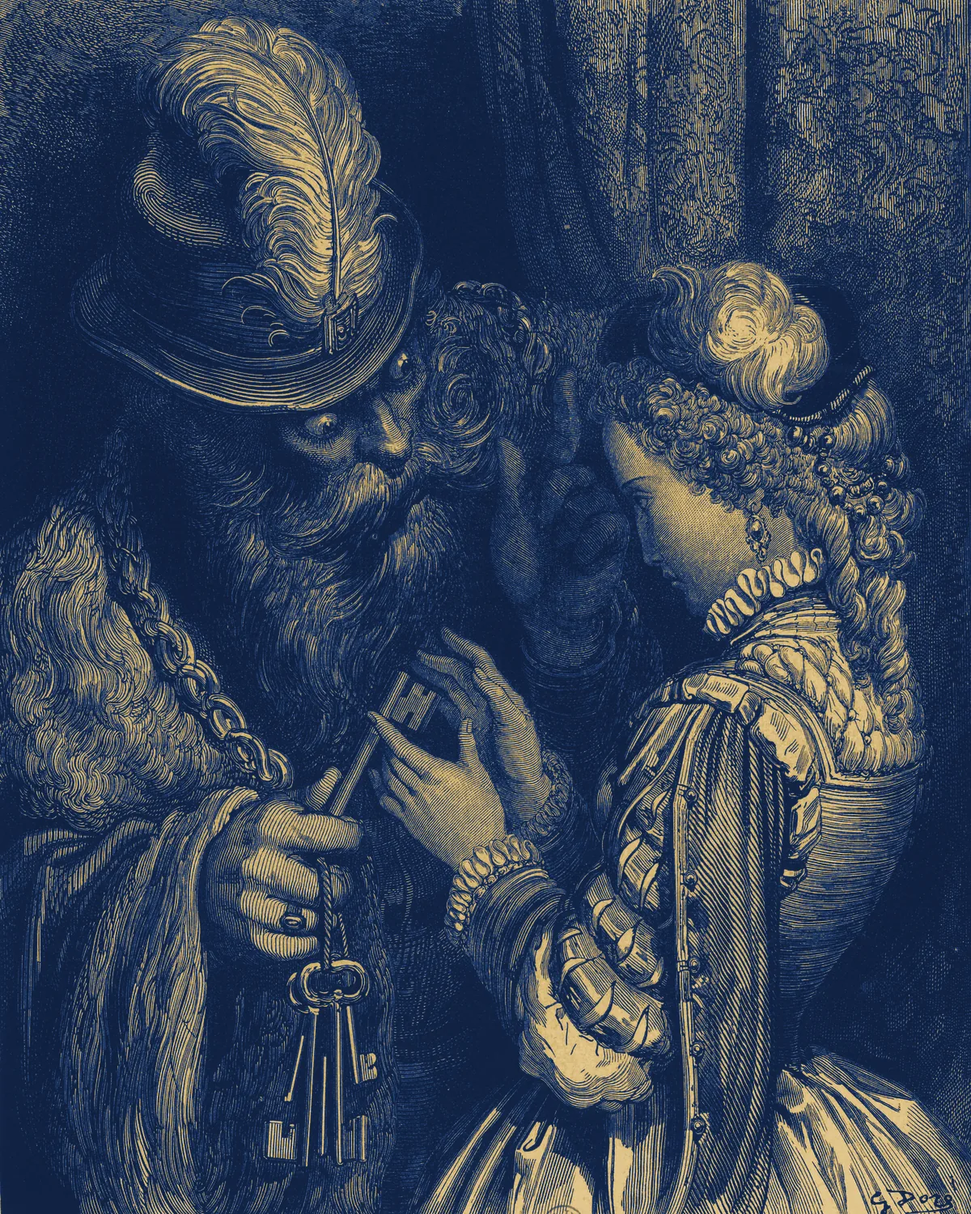
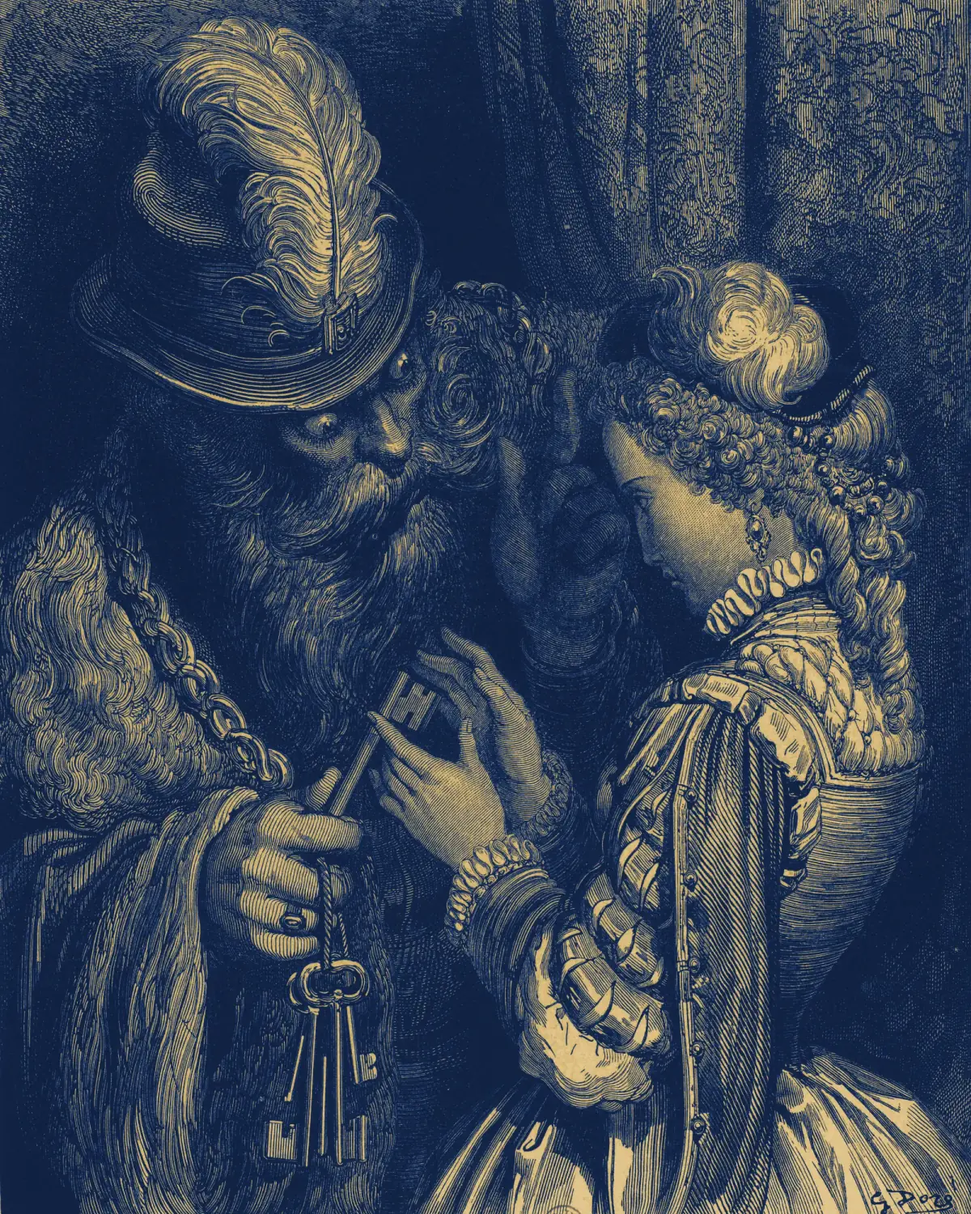
Speed: 360w cover plates for phones, first catalog covers eager and shown without waiting for scripts, recompressed 1200w plates, 150KB home background instead of 700KB

diff --git a/components/BookCover.tsx b/components/BookCover.tsx
@@ -8,6 +8,8 @@ type Props = {
   pos?: string | null;
   /** big = the book page; small = cart rows */
   size?: "card" | "big" | "small";
+  /** the first covers on screen: load at once, not lazily (they are the page's LCP) */
+  priority?: boolean;
 };
 
 /**
@@ -24,12 +26,13 @@ const SIZES = {
 /** A Doré plate comes in three widths; a card shows it ~240px wide and used
  * to pull the 1200px file (~700KB) for it, ten times over on the catalogue. */
 function plateSet(src: string) {
-  const m = src.match(/^(\/gravure\/[a-z-]+?)(?:-md|-sm|-xs)?\.webp$/);
+  const m = src.match(/^(\/gravure\/[a-z-]+?)(?:-md|-sm|-xs|-2xs)?\.webp$/);
   if (!m) return undefined;
-  return `${m[1]}-xs.webp 560w, ${m[1]}-sm.webp 780w, ${m[1]}-md.webp 1200w`;
+  return `${m[1]}-2xs.webp 360w, ${m[1]}-xs.webp 560w, ${m[1]}-sm.webp 780w, ${m[1]}-md.webp 1200w`;
 }
 
-export default function BookCover({ title, author, src, pos, size = "card" }: Props) {
+export default function BookCover({ title, author, src, pos, size = "card", priority }: Props) {
+  const eager = priority || size === "big";
   const plate = !src || src.startsWith("/gravure/");
   return (
     <div className={`${styles.cover} ${styles[size]}`}>
@@ -40,8 +43,8 @@ export default function BookCover({ title, author, src, pos, size = "card" }: Pr
           srcSet={plateSet(src)}
           sizes={SIZES[size]}
           alt=""
-          loading={size === "big" ? "eager" : "lazy"}
-          fetchPriority={size === "big" ? "high" : undefined}
+          loading={eager ? "eager" : "lazy"}
+          fetchPriority={eager ? "high" : undefined}
           decoding="async"
           style={{ objectPosition: pos || "50% 50%" }}
         />

diff --git a/components/CatalogGrid.tsx b/components/CatalogGrid.tsx
@@ -27,7 +27,7 @@ function quickFormat(b: Book): Format | null {
   return null;
 }
 
-function BookCard({ b, baked }: { b: Book; baked: boolean }) {
+function BookCard({ b, baked, first }: { b: Book; baked: boolean; first?: boolean }) {
   const toast = useToast();
   const cart = useCart();
   const from = fromPrice(b);
@@ -43,7 +43,7 @@ function BookCard({ b, baked }: { b: Book; baked: boolean }) {
     <div className={styles.book}>
       <Link href={href} prefetch={false} className={styles.bookLink}>
         <span className={styles.coverBox}>
-          <BookCover title={b.title} author={b.author} src={b.cover_url} pos={b.cover_pos} />
+          <BookCover title={b.title} author={b.author} src={b.cover_url} pos={b.cover_pos} priority={first} />
           <span className={styles.badges}>
             {was != null && price != null && <span className={styles.badgeSale}>−{discountPct(price, was)}%</span>}
             {b.stock_left != null && b.stock_left > 0 && <span className={styles.badgeLow}>Останні {b.stock_left}</span>}
@@ -266,8 +266,8 @@ export default function CatalogGrid({ genres, initial = null }: { genres: Genre[
       ) : (
         <div className={styles.books}>
           {shown.map((b, i) => (
-            <Reveal key={b.slug} delay={Math.min(i, 6) * 40} className={styles.slot}>
-              <BookCard b={b} baked={baked.has(b.slug)} />
+            <Reveal key={b.slug} delay={Math.min(i, 6) * 40} className={styles.slot} instant={i < 4}>
+              <BookCard b={b} baked={baked.has(b.slug)} first={i < 4} />
             </Reveal>
           ))}
         </div>

diff --git a/components/Reveal.tsx b/components/Reveal.tsx
@@ -10,6 +10,8 @@ type Props = {
   className?: string;
   style?: React.CSSProperties;
   id?: string;
+  /** already on screen at load: shown in the static HTML, no wait for scripts */
+  instant?: boolean;
 };
 
 export default function Reveal({
@@ -19,13 +21,14 @@ export default function Reveal({
   className = "",
   style,
   id,
+  instant = false,
 }: Props) {
   const ref = useRef<HTMLElement>(null);
-  const [shown, setShown] = useState(false);
+  const [shown, setShown] = useState(instant);
 
   useEffect(() => {
     const el = ref.current;
-    if (!el) return;
+    if (!el || instant) return;
 
     if (!("IntersectionObserver" in window)) {
       setShown(true);
@@ -44,7 +47,7 @@ export default function Reveal({
 
     io.observe(el);
     return () => io.disconnect();
-  }, []);
+  }, [instant]);
 
   return (
     <Tag

diff --git a/app/page.module.css b/app/page.module.css
@@ -20,7 +20,7 @@
   z-index: 0;
   background:
     radial-gradient(60% 55% at 50% 38%, rgba(8, 17, 34, 0.15) 0%, rgba(8, 17, 34, 0.82) 100%),
-    url("/gravure/death-moon.webp");
+    url("/gravure/death-moon-bg.webp");
   background-repeat: no-repeat, no-repeat;
   background-position: center, center 30%;
   background-size: cover, cover;
@@ -197,7 +197,7 @@
   .scene::before {
     background-image:
       radial-gradient(60% 55% at 50% 38%, rgba(8, 17, 34, 0.15) 0%, rgba(8, 17, 34, 0.82) 100%),
-      url("/gravure/death-moon-sm.webp");
+      url("/gravure/death-moon-bg-sm.webp");
   }
 
   .letterLit {
